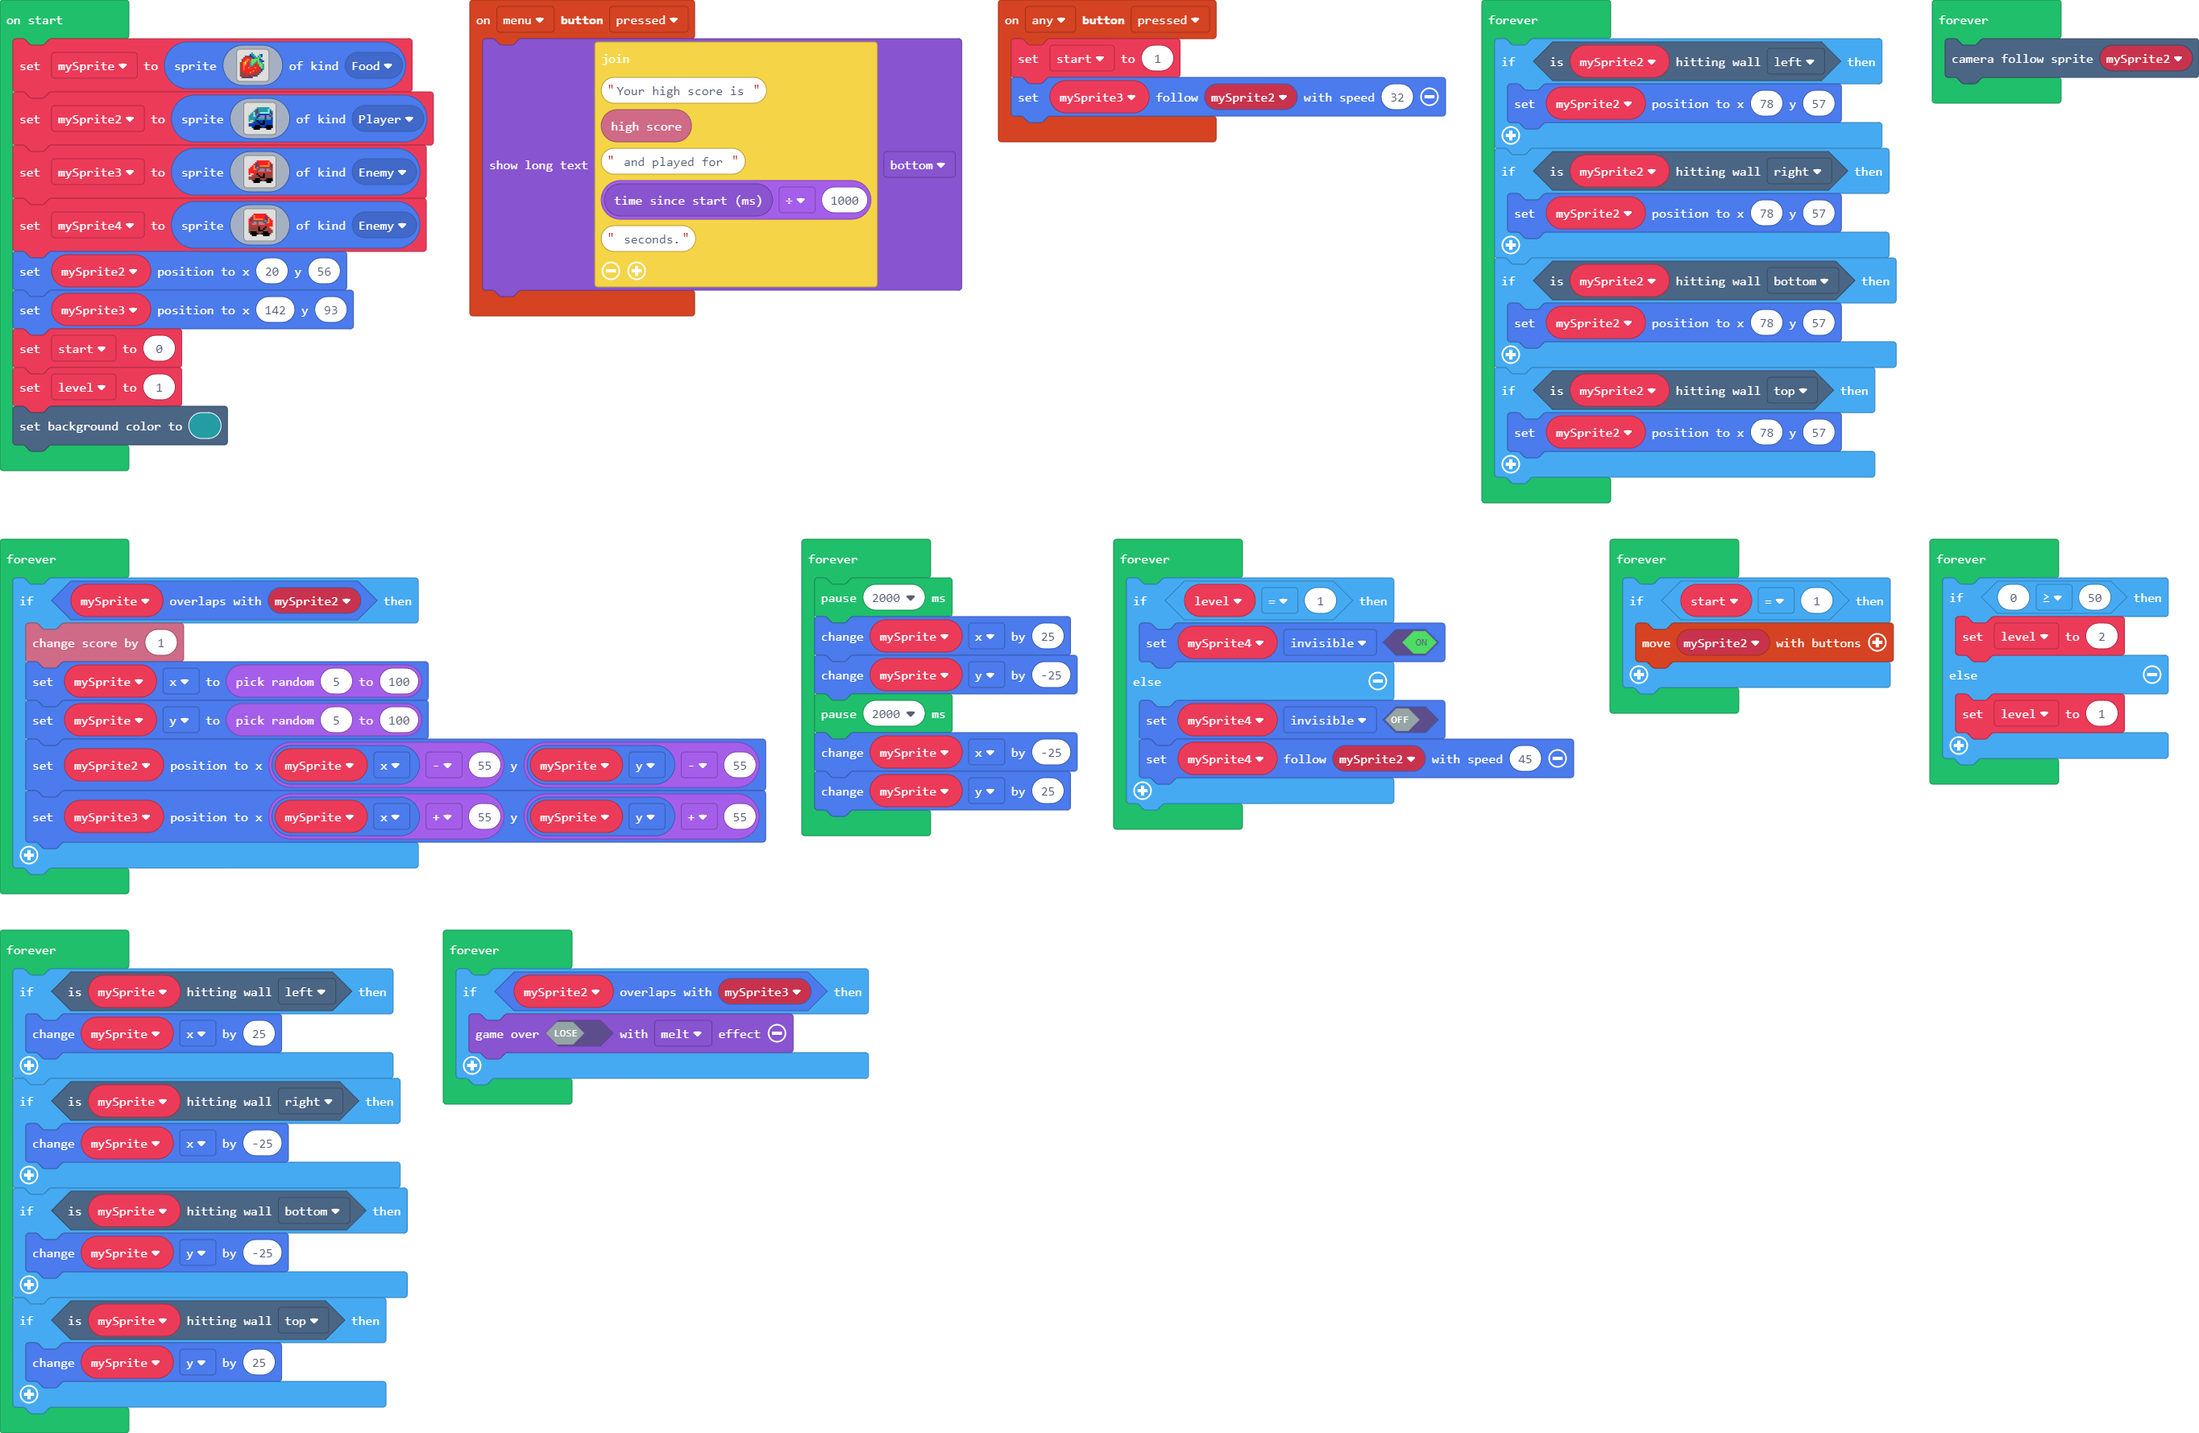
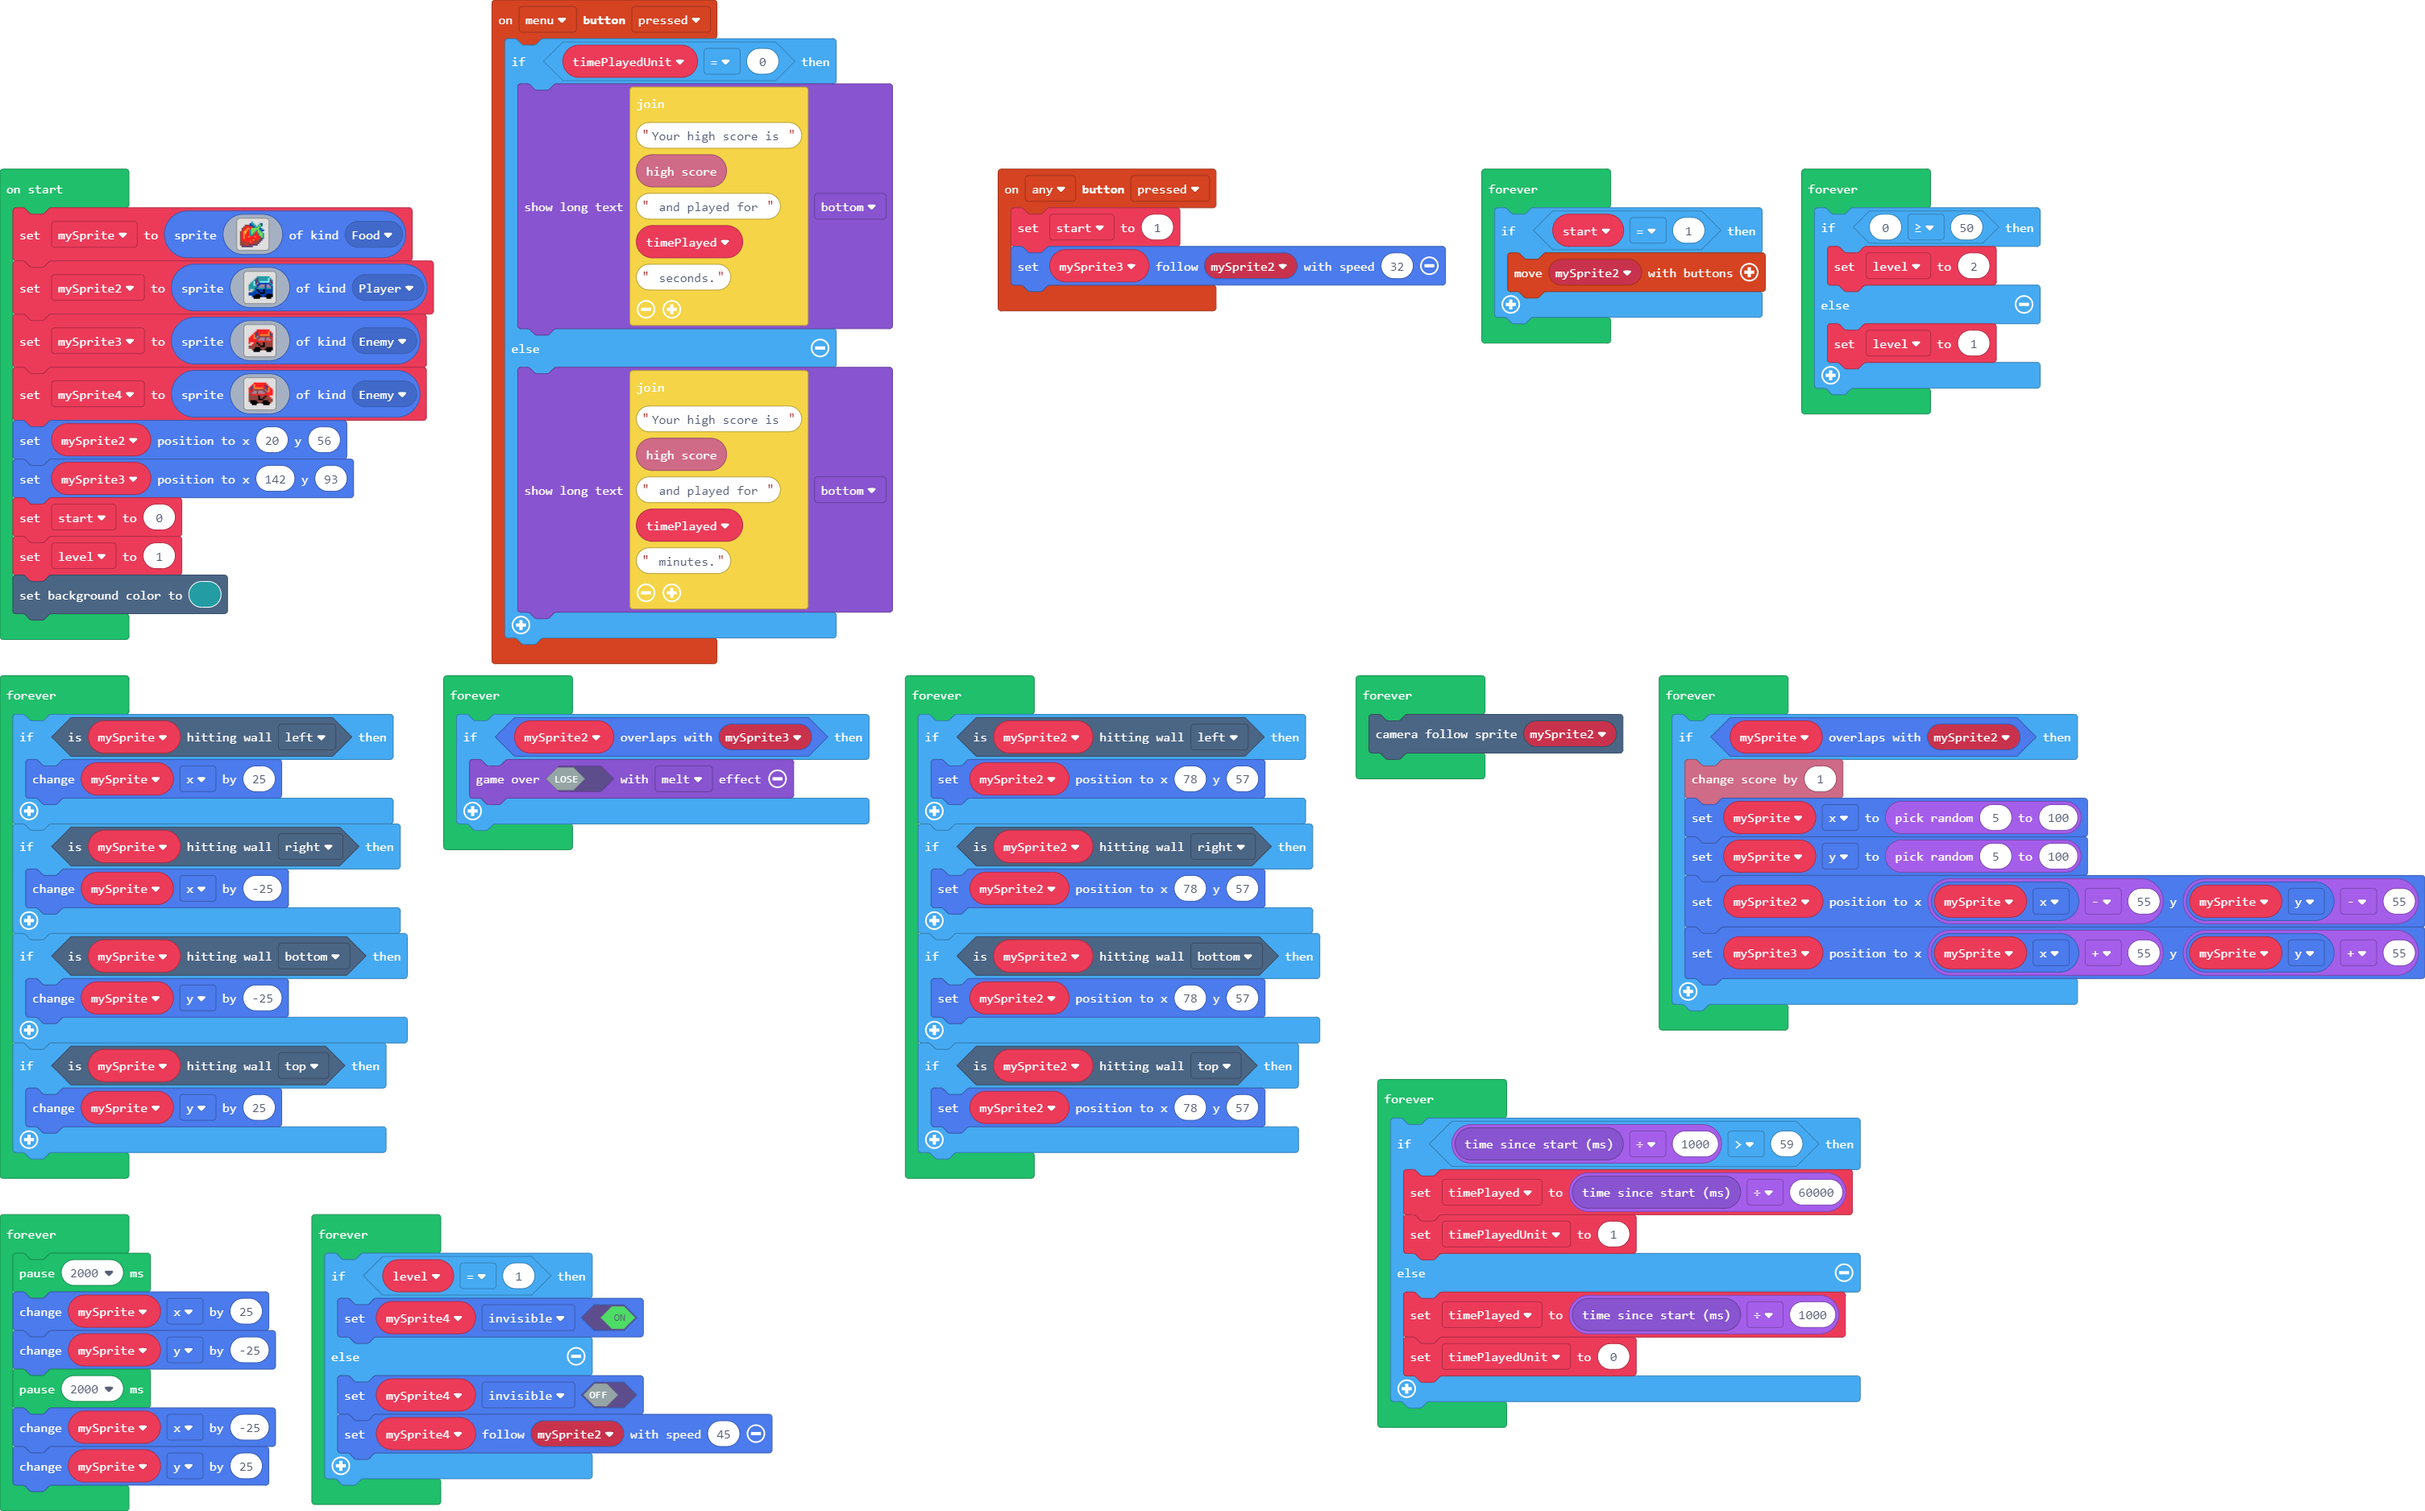
Some imrovements on the menu.

diff --git a/main.ts b/main.ts
@@ -3,12 +3,18 @@ namespace SpriteKind {
     export const Bonus = SpriteKind.create()
 }
 controller.menu.onEvent(ControllerButtonEvent.Pressed, function () {
-    game.showLongText("Your high score is " + info.highScore() + " and played for " + game.runtime() / 1000 + " seconds.", DialogLayout.Bottom)
+    if (timePlayedUnit == 0) {
+        game.showLongText("Your high score is " + info.highScore() + " and played for " + timePlayed + " seconds.", DialogLayout.Bottom)
+    } else {
+        game.showLongText("Your high score is " + info.highScore() + " and played for " + timePlayed + " minutes.", DialogLayout.Bottom)
+    }
 })
 controller.anyButton.onEvent(ControllerButtonEvent.Pressed, function () {
     start = 1
     mySprite3.follow(mySprite2, 32)
 })
+let timePlayed = 0
+let timePlayedUnit = 0
 let start = 0
 let mySprite3: Sprite = null
 let mySprite2: Sprite = null
@@ -90,48 +96,6 @@ start = 0
 let level = 1
 scene.setBackgroundColor(6)
 forever(function () {
-    if (mySprite2.isHittingTile(CollisionDirection.Left)) {
-        mySprite2.setPosition(78, 57)
-    }
-    if (mySprite2.isHittingTile(CollisionDirection.Right)) {
-        mySprite2.setPosition(78, 57)
-    }
-    if (mySprite2.isHittingTile(CollisionDirection.Bottom)) {
-        mySprite2.setPosition(78, 57)
-    }
-    if (mySprite2.isHittingTile(CollisionDirection.Top)) {
-        mySprite2.setPosition(78, 57)
-    }
-})
-forever(function () {
-    scene.cameraFollowSprite(mySprite2)
-})
-forever(function () {
-    if (mySprite.overlapsWith(mySprite2)) {
-        info.changeScoreBy(1)
-        mySprite.x = Math.randomRange(5, 100)
-        mySprite.y = Math.randomRange(5, 100)
-        mySprite2.setPosition(mySprite.x - 55, mySprite.y - 55)
-        mySprite3.setPosition(mySprite.x + 55, mySprite.y + 55)
-    }
-})
-forever(function () {
-    pause(2000)
-    mySprite.x += 25
-    mySprite.y += -25
-    pause(2000)
-    mySprite.x += -25
-    mySprite.y += 25
-})
-forever(function () {
-    if (level == 1) {
-        mySprite4.setFlag(SpriteFlag.Invisible, true)
-    } else {
-        mySprite4.setFlag(SpriteFlag.Invisible, false)
-        mySprite4.follow(mySprite2, 45)
-    }
-})
-forever(function () {
     if (start == 1) {
         controller.moveSprite(mySprite2)
     }
@@ -160,5 +124,56 @@ forever(function () {
 forever(function () {
     if (mySprite2.overlapsWith(mySprite3)) {
         game.over(false, effects.melt)
+    }
+})
+forever(function () {
+    if (mySprite2.isHittingTile(CollisionDirection.Left)) {
+        mySprite2.setPosition(78, 57)
+    }
+    if (mySprite2.isHittingTile(CollisionDirection.Right)) {
+        mySprite2.setPosition(78, 57)
+    }
+    if (mySprite2.isHittingTile(CollisionDirection.Bottom)) {
+        mySprite2.setPosition(78, 57)
+    }
+    if (mySprite2.isHittingTile(CollisionDirection.Top)) {
+        mySprite2.setPosition(78, 57)
+    }
+})
+forever(function () {
+    scene.cameraFollowSprite(mySprite2)
+})
+forever(function () {
+    if (mySprite.overlapsWith(mySprite2)) {
+        info.changeScoreBy(1)
+        mySprite.x = Math.randomRange(5, 100)
+        mySprite.y = Math.randomRange(5, 100)
+        mySprite2.setPosition(mySprite.x - 55, mySprite.y - 55)
+        mySprite3.setPosition(mySprite.x + 55, mySprite.y + 55)
+    }
+})
+forever(function () {
+    if (game.runtime() / 1000 > 59) {
+        timePlayed = game.runtime() / 60000
+        timePlayedUnit = 1
+    } else {
+        timePlayed = game.runtime() / 1000
+        timePlayedUnit = 0
+    }
+})
+forever(function () {
+    pause(2000)
+    mySprite.x += 25
+    mySprite.y += -25
+    pause(2000)
+    mySprite.x += -25
+    mySprite.y += 25
+})
+forever(function () {
+    if (level == 1) {
+        mySprite4.setFlag(SpriteFlag.Invisible, true)
+    } else {
+        mySprite4.setFlag(SpriteFlag.Invisible, false)
+        mySprite4.follow(mySprite2, 45)
     }
 })
